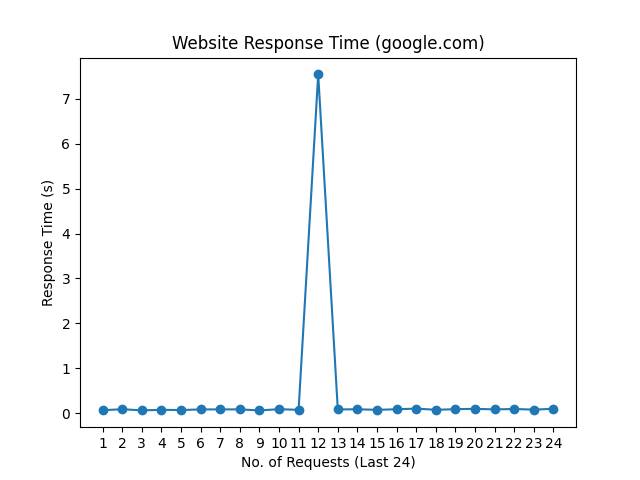
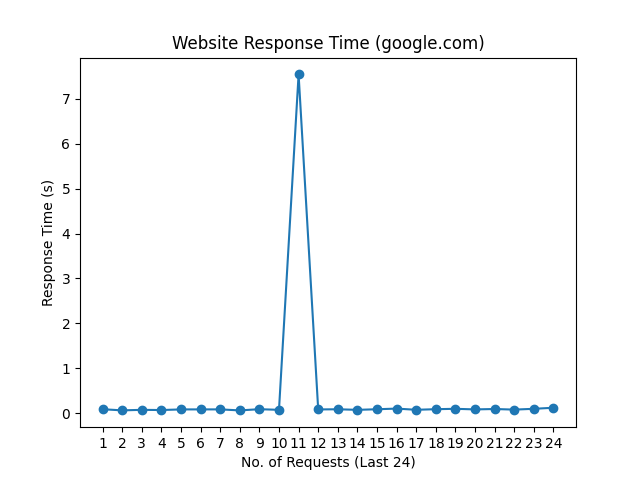
update README.md, history and graph

diff --git a/README.md b/README.md
@@ -1,10 +1,10 @@
 # Web Monitoring
 
-Last Checked: 14/12/2023 09:03
+Last Checked: 15/12/2023 09:04
 
 | Website | Response Time (s) | Status | Avg Uptime (%) |
 |---------|-------------------|--------|----------------|
 | www.thiswebsiteisdown.net | 0 <br> <img src="graph/thiswebsiteisdown.net.png" alt="Graph" width="200" height="200">  | ❌ Down | 0.00 |
-| www.netflix.com | 1.293008 <br> <img src="graph/netflix.com.png" alt="Graph" width="200" height="200">  | ✅ Up | 100.00 |
-| www.google.com | 0.093860 <br> <img src="graph/google.com.png" alt="Graph" width="200" height="200">  | ✅ Up | 100.00 |
-| www.facebook.com | 0.254743 <br> <img src="graph/facebook.com.png" alt="Graph" width="200" height="200">  | ✅ Up | 100.00 |
+| www.netflix.com | 0.480393 <br> <img src="graph/netflix.com.png" alt="Graph" width="200" height="200">  | ✅ Up | 100.00 |
+| www.google.com | 0.117477 <br> <img src="graph/google.com.png" alt="Graph" width="200" height="200">  | ✅ Up | 100.00 |
+| www.facebook.com | 0.263046 <br> <img src="graph/facebook.com.png" alt="Graph" width="200" height="200">  | ✅ Up | 100.00 |
